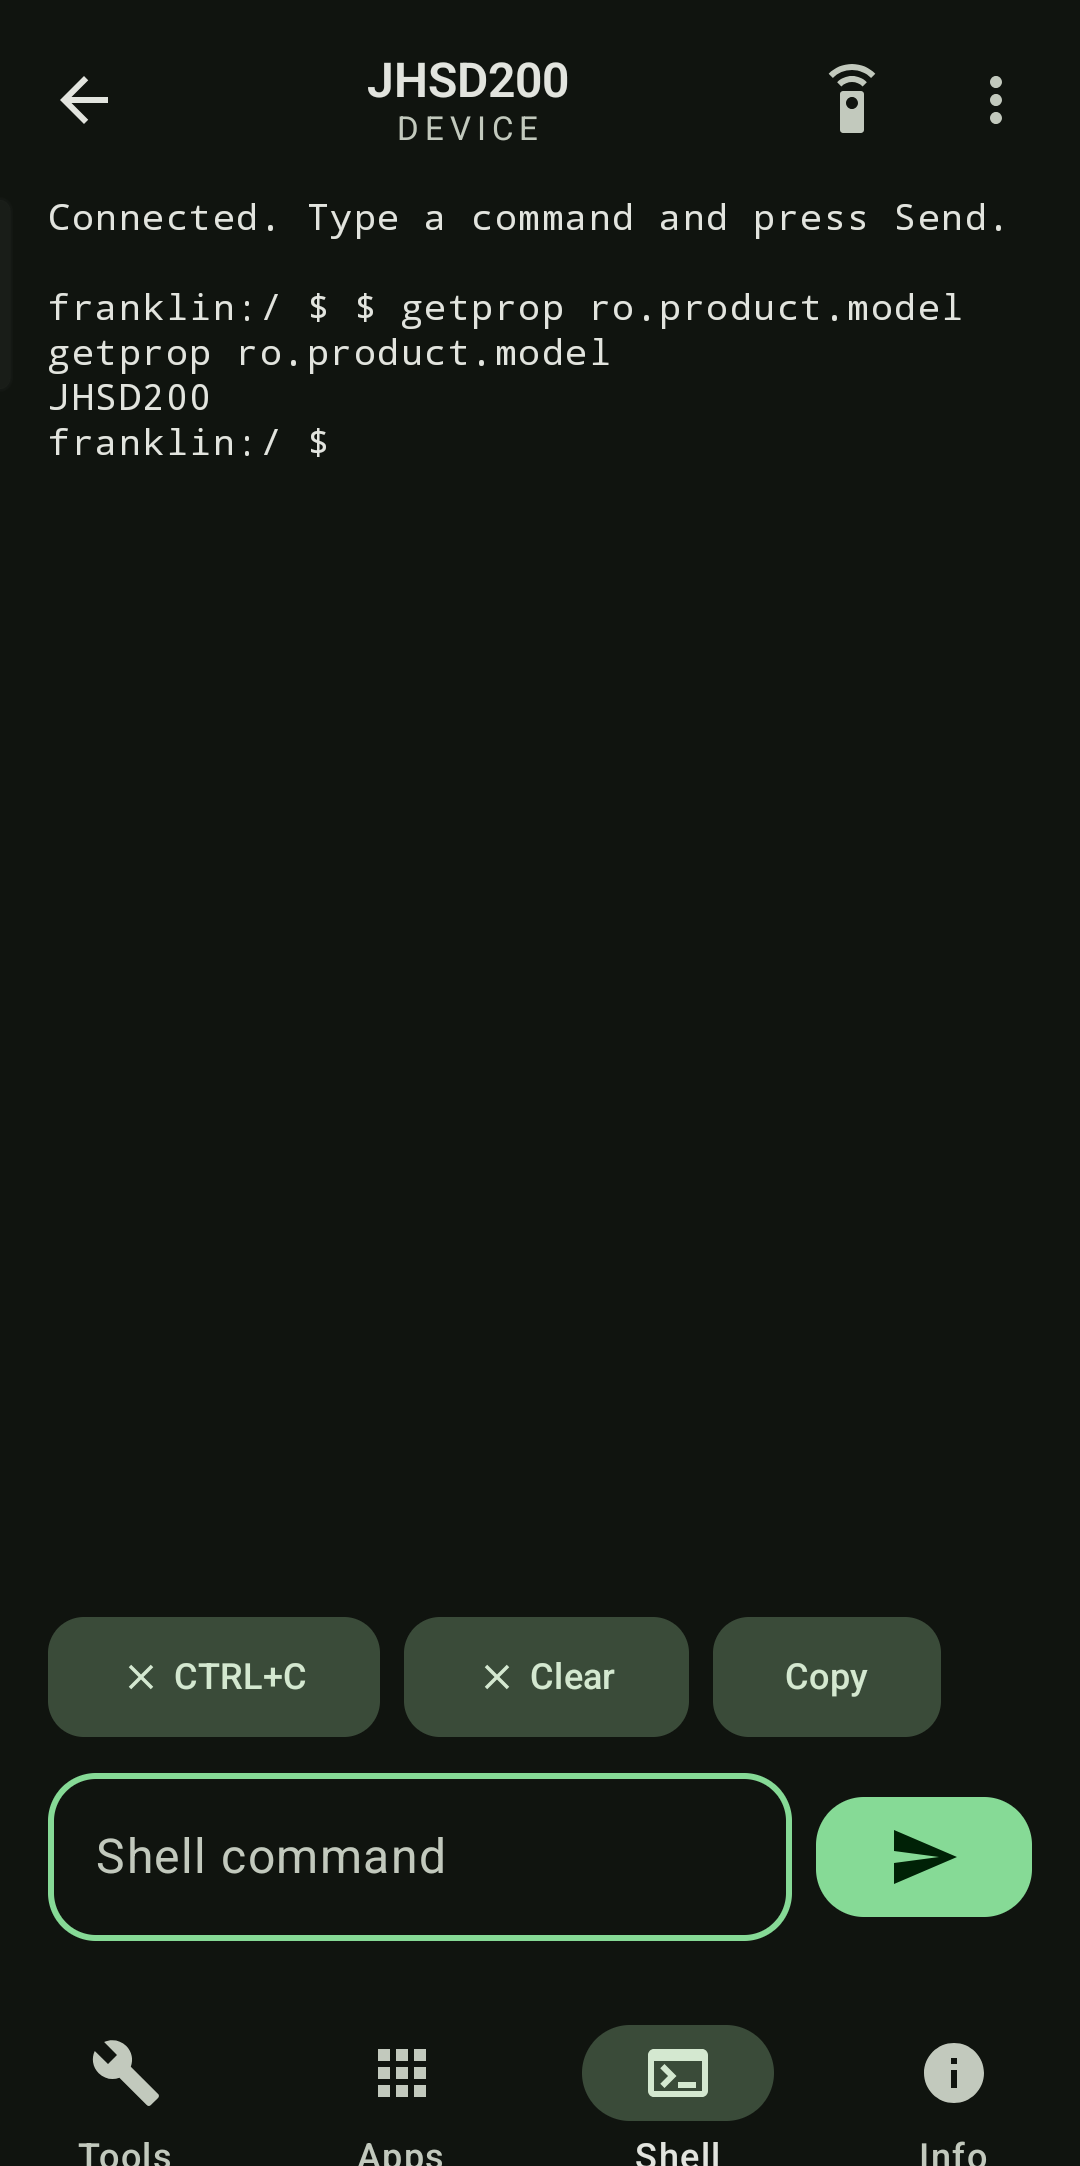
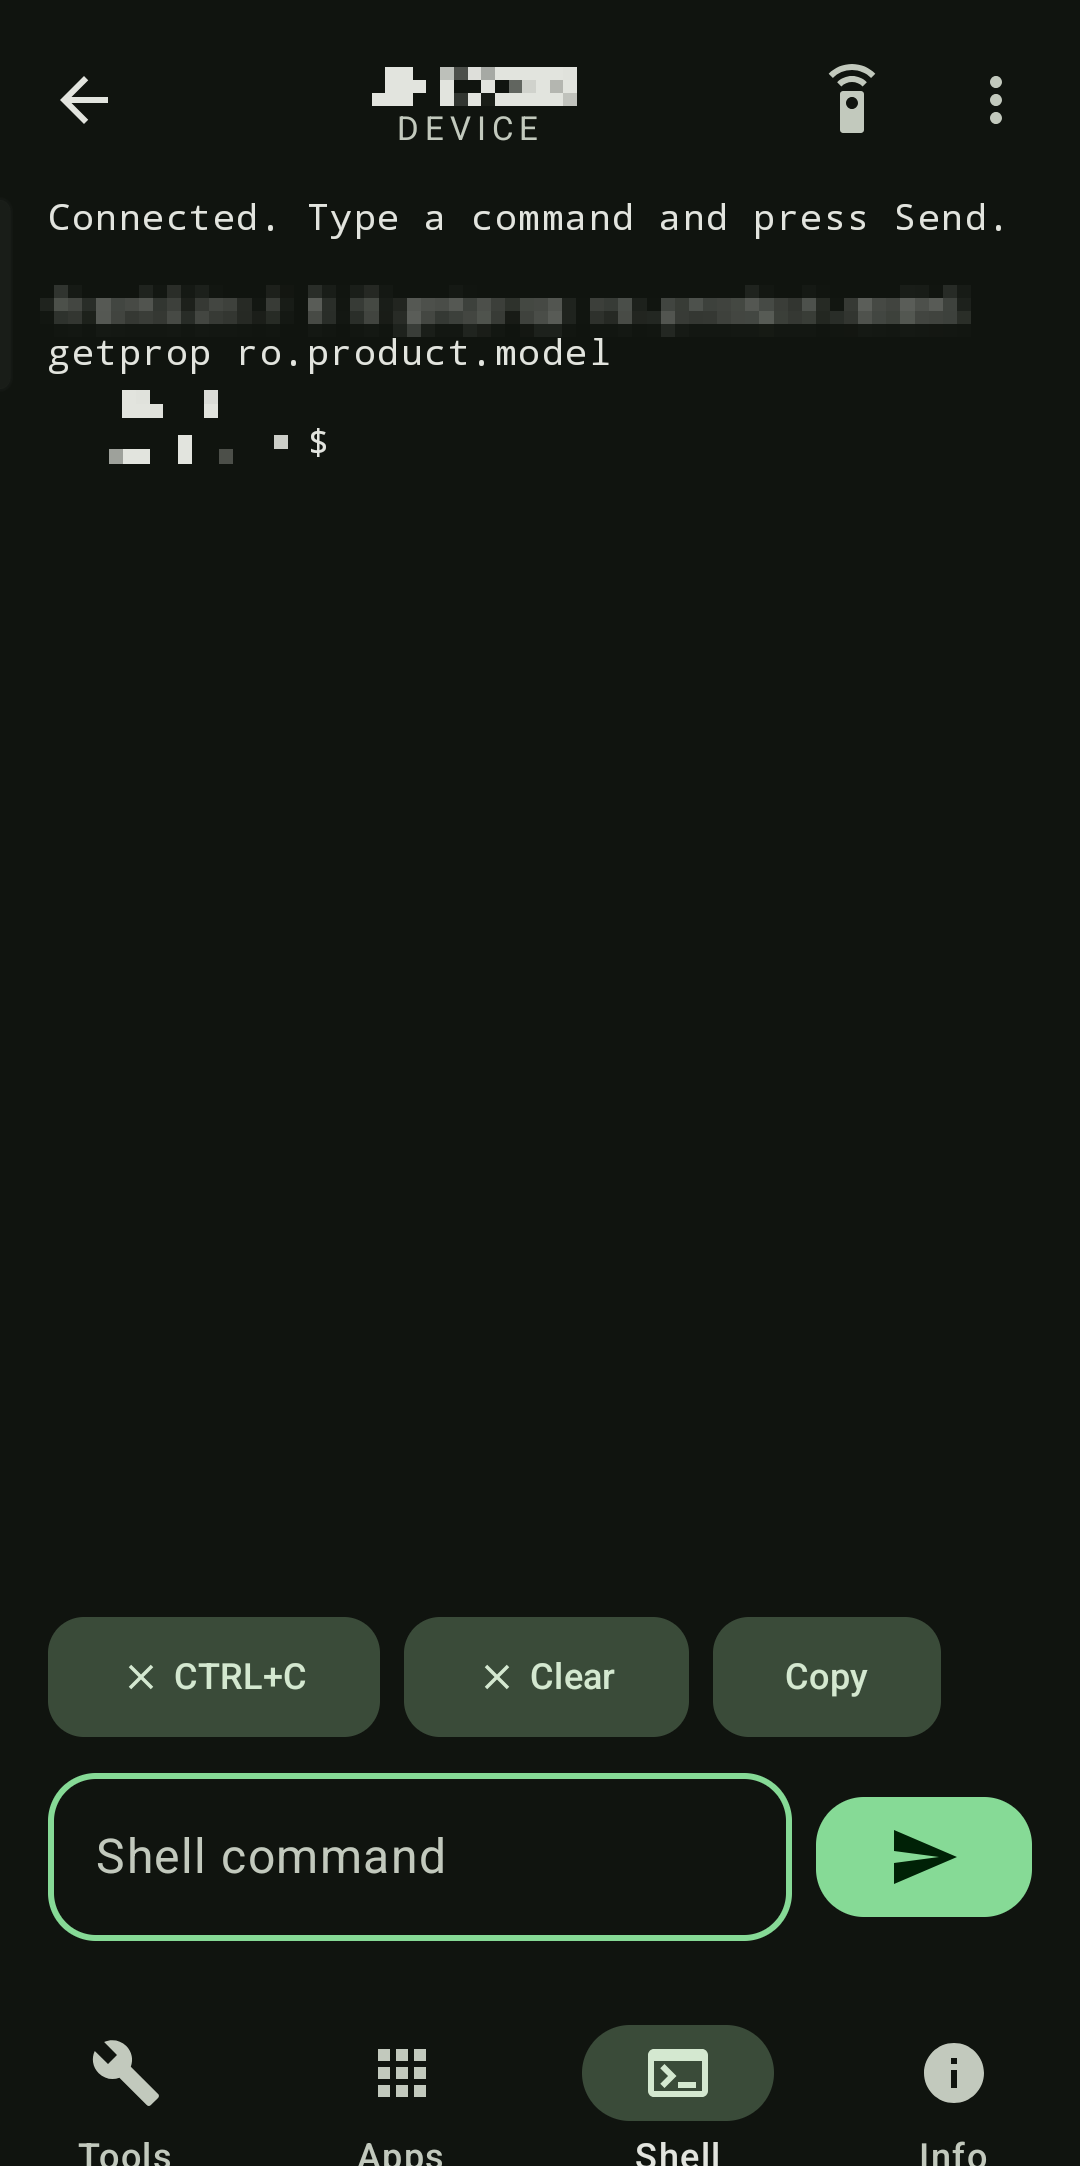
docs: redact IPs, device names/serials and the QR payload from every screenshot

diff --git a/README.md b/README.md
@@ -65,7 +65,8 @@
 | ![Shell](docs/screenshots/07-shell.png) | ![Rooms & groups](docs/screenshots/08-rooms.png) | ![QR handoff](docs/screenshots/09-qr.png) |
 | ![mDNS browser](docs/screenshots/10-mdns.png) | ![Settings](docs/screenshots/11-settings.png) | |
 
-All screenshots are captured on a phone with the status bar and navigation bar cropped out.
+All screenshots are captured on a phone with the status bar and navigation bar cropped out. IP
+addresses, device names/serials and the QR payload are pixelated for privacy.
 
 ## 🚀 Install
 
